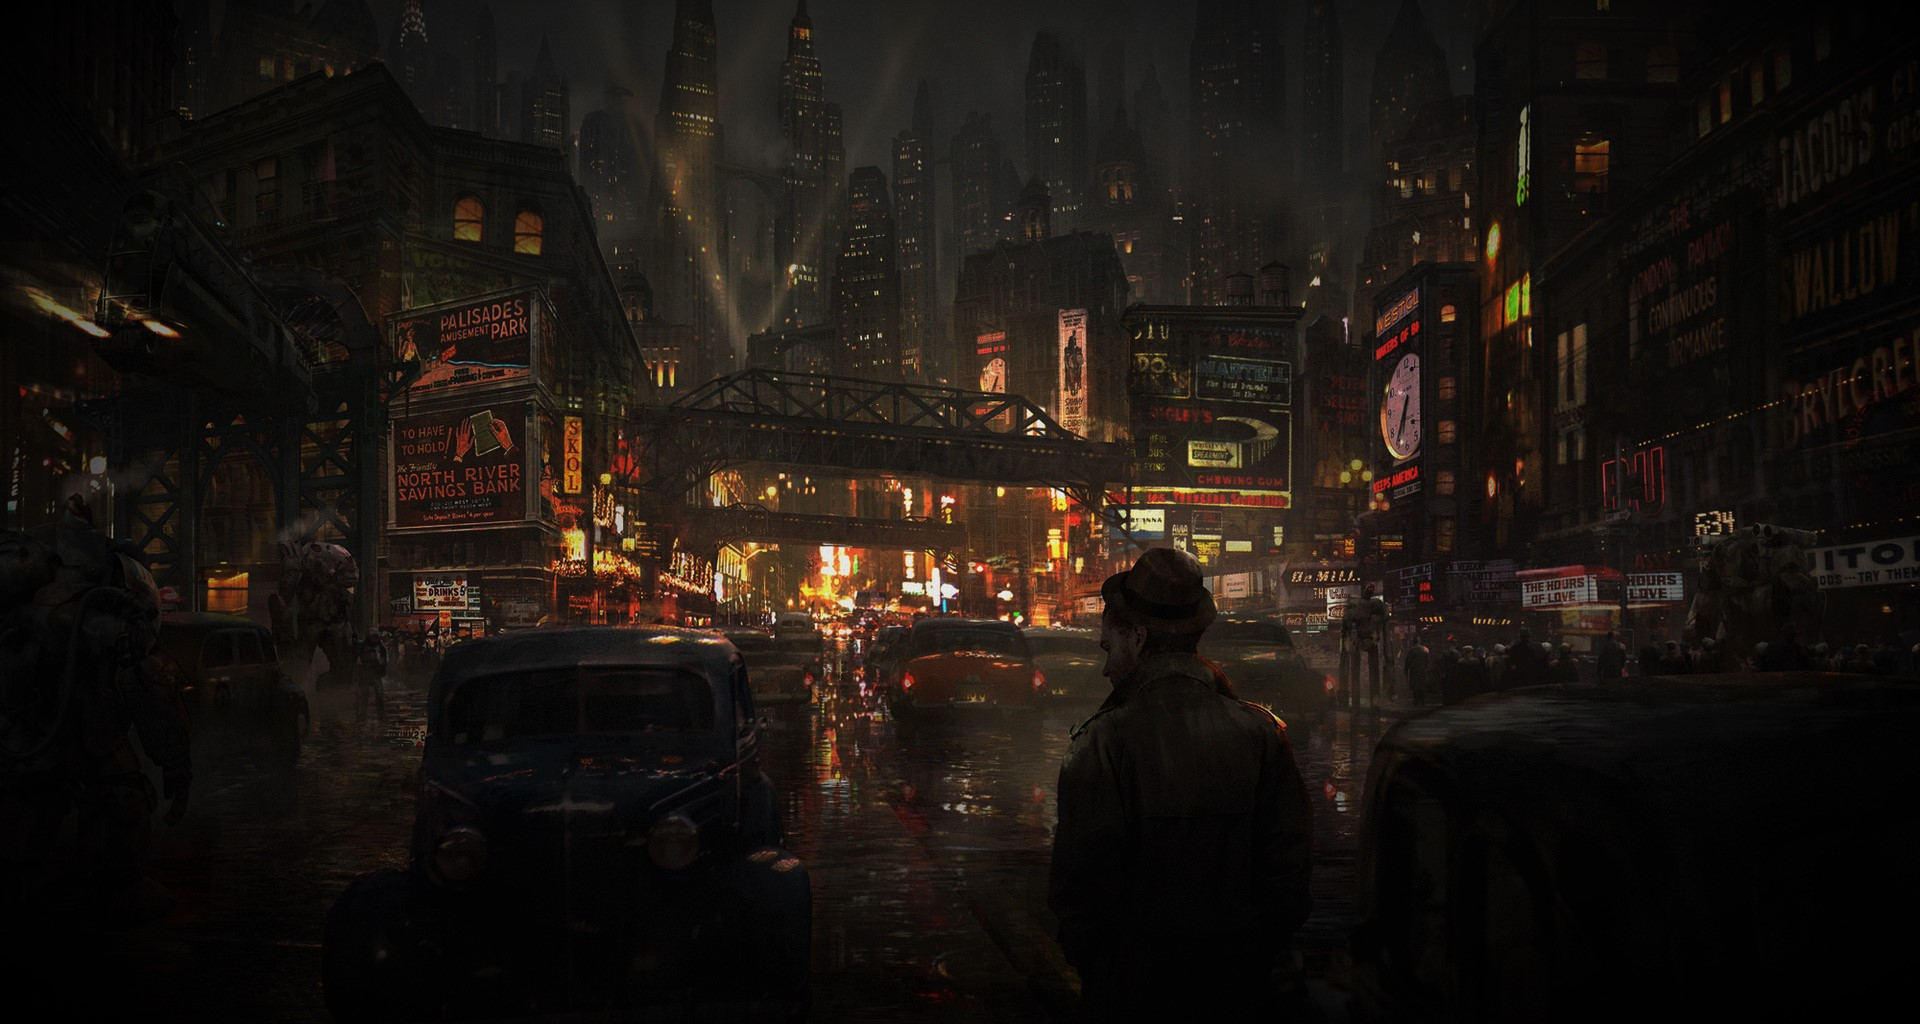
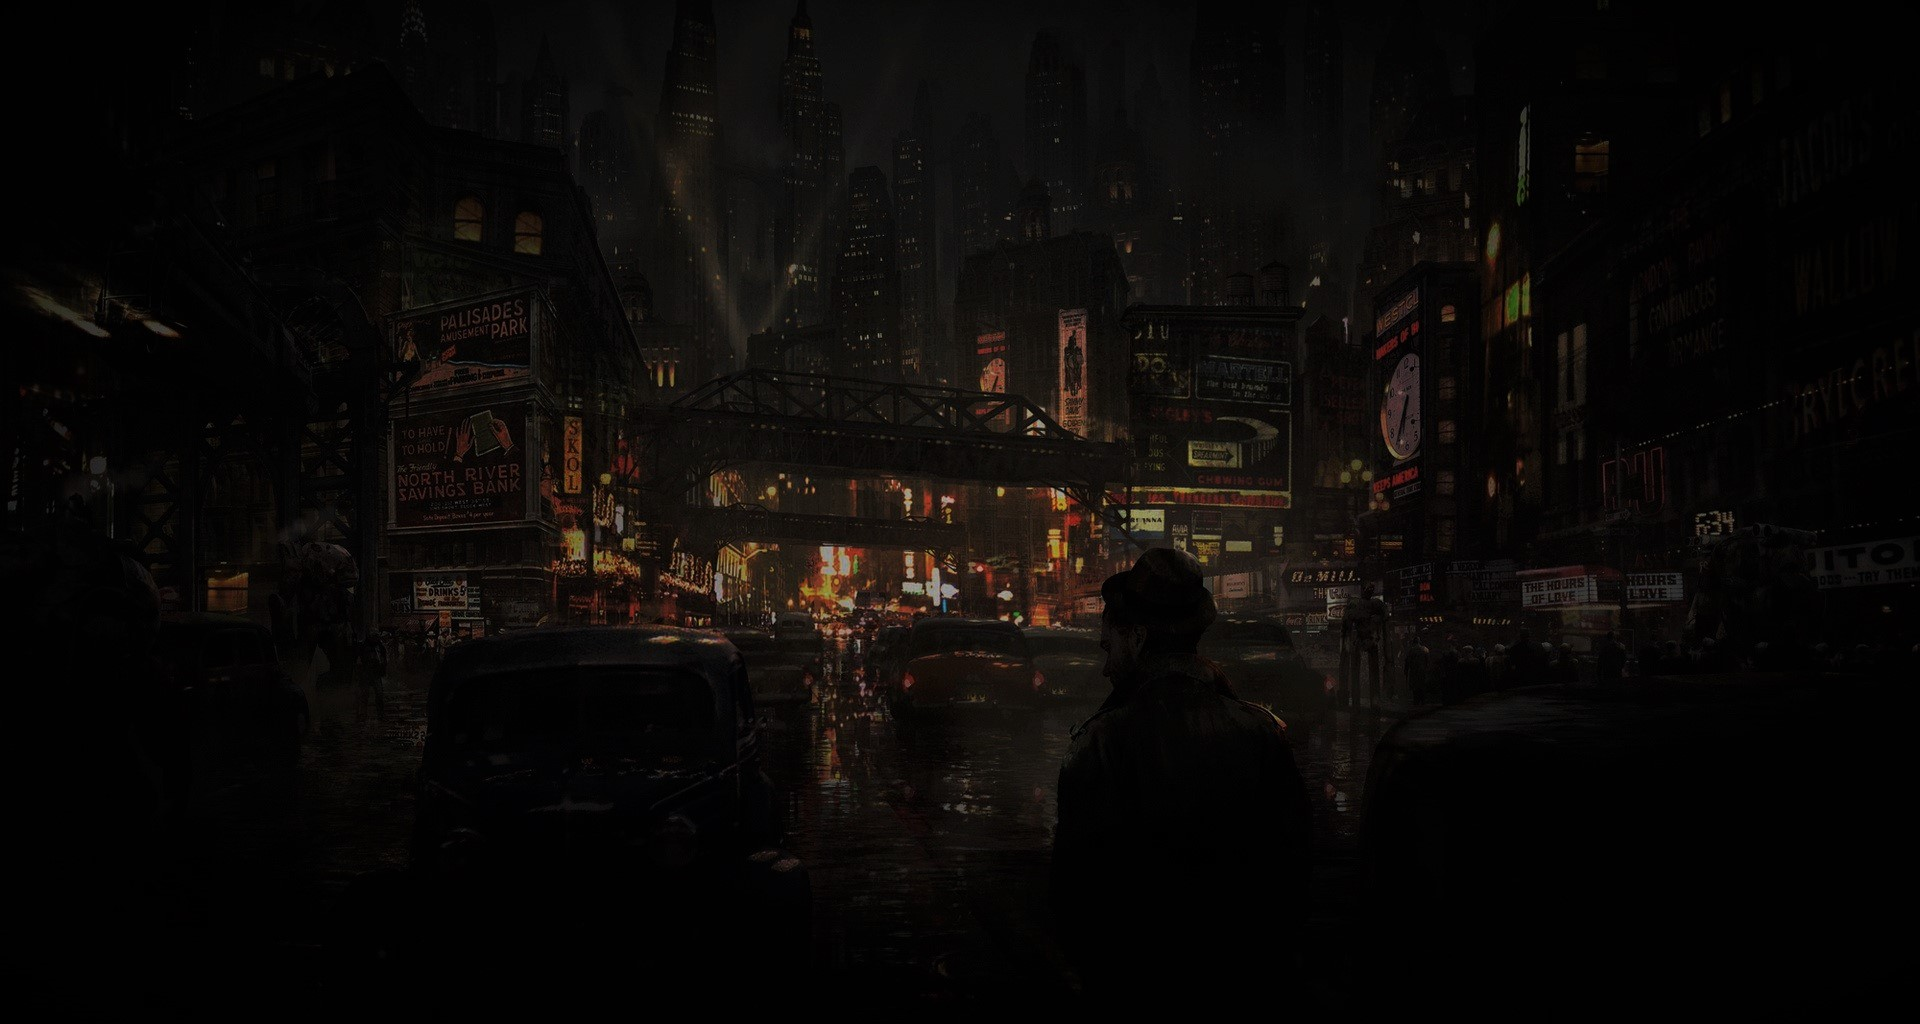
J'ai changé la luminosité des images blblbl

diff --git a/telesto.html b/telesto.html
@@ -1,0 +1,98 @@
+<!DOCTYPE html>
+<html lang="fr">
+<head>
+    <meta charset="UTF-8">
+    <meta name="viewport" content="width=device-width, initial-scale=1.0">
+    <meta http-equiv="X-UA-Compatible" content="ie=edge">
+    <title>StarLight | Telesto</title>
+    <link rel="stylesheet" href="style.css">
+    <link href="https://fonts.googleapis.com/css?family=Orbitron" rel="stylesheet">
+    <link href="https://www.1001fonts.com/sf-distant-galaxy-font.html" rel="stylesheet">
+    <link href="https://fonts.googleapis.com/css?family=Julius+Sans+One" rel="stylesheet">
+    <link href="https://fonts.googleapis.com/css?family=Raleway" rel="stylesheet">
+    <link rel="shortcut icon" href="StarLightLogo.png" type="image/x-icon">
+    <link href="https://fonts.googleapis.com/icon?family=Material+Icons"
+      rel="stylesheet">
+</head>
+<body>
+    <header id="top">
+        <div>
+            <img src="StarLightLogo.png" alt="" height="120px" onclick="location.href='index.html'"> 
+            <p onclick="location.href='index.html'">StarLight</p>
+        </div>
+    </header>
+    <div class="cadreplanete">
+        <h1>Telesto</h1>
+        <p><b><i>Joyau de vie de d'energie</i></b></p>
+        <div class="icones">
+            <div>
+                <i class="material-icons" id="rouge">star</i>
+                <p>N'a pas accès à la Magie</p>
+            </div>
+            <div>
+               <a id="ficheDescription"><i class="material-icons" id="fleche">keyboard_arrow_down</i></a> 
+            </div>
+            <div>
+                <i class="material-icons">brightness_5</i>
+                <p>A accès à la technologie Spatiale</p>
+            </div>
+            <div>
+                <i class="material-icons" id="saumon">person_outline</i>
+                <p>Type de gouvernement : <br> Semi-Dictature</p>
+            </div>
+            <div>
+                <i class="material-icons">flash_on</i>
+                <p>Ère : Futuriste</p>
+            </div>
+            <div>
+                <i class="material-icons" id="vert">room</i>
+                <p>Situation géopolitique : <br> Très stable</p>
+            </div>
+        </div>
+    </div>
+    <div class="parallax" id="tele"></div>
+        <h1 id="fiche">Fiche récapitulative :</h1>
+        <img class="ficheplanete" src="images/fichemagaclite.jpg" alt="">
+        <h1>Description :</h1>
+        <p class="texteplanete">Telesto est une planète de petite taille, située dans le système de Magellan. C’est la planète voisine à Magaclite. Elle est recouverte d’une grande plaine entourée par une profonde forêt séparée par de nombreuses rivières traversant la planète de long en large. Au pôle, Nord se situe l’unique montagne de Telesto, le mont Fulgur. Une mystique montagne étant à la source du temps constamment orageux de la planète. Les légendes racontent qu’il y aurait à son sommet une source pure d'Énergie élémentaire de Foudre (EdF). <br><br>
+
+            Étant la planète la plus reculée de son système, son climat est assez froid, ayant des températures variant de 35°C à -65°C, elle abrite une faune ainsi qu’une flore extrêmement variée, mais une espèce particulière se démarque des autres : les Florides. Une espèce entre l’homme et la plante, d’un pacifisme hors pair. Malgré cela, cette espèce est réputée pour ses capacités à manipuler le bois, pouvant faire de magnifiques objet ainsi que d’intrépides armes. <br><br>
+            
+            Bien que cette espèce ne fasse de mal à personne, elle n’est pas à l'abri des autres espèces étant plutôt agressive, cherchant à se nourrir de leurs récoltes, et même dans les cas les plus extrêmes, de leurs chair boiseuse. <br><br>
+            
+            Le temps sur Telesto est majoritairement nuageux, les orages ainsi que de violentes tempêtes électriques sont choses courantes. Comme énoncé plus tôt, ses orages sont dues à cause du sommet du mont Fulgur, d’une hauteur de 1856 mètres celui-ci abrite une source pure d’un élément, en l’occurrence celui de Foudre. <br><br>
+            
+            D’après la section de surveillance de Karma l'énergie produite par cette source serait capable d'alimenter la totalité du réseau électrique de Magaclite pendant des centaines de milliers d'années. Cette mystérieuse source est au centre des études de la section R&D qui cherche un moyen de la récupérer puis de la stocker pour l’utiliser à des fins utilitaire ou militaire, comme par exemple arriver à stocker cette énergie dans une arme pour ensuite s’en servir comme munitions pour tirer à l’infini. <br><br>
+            
+            La source élémentaire du mont Fulgur n’en fait pas sa seule particularité. En effet, le mont Fulgur est aussi la source de toutes les rivières de Telesto qui se séparent aux 4 coins du globe, alimentant toute la végétation en eau pour finalement se retrouver au même endroit, dans la mer éternelle, situé à l’opposé du mont Fulgur, au centre du pôle Sud. <br><br>
+            
+            Cette paisible mer contient une eau pure, qui selon les croyances, aurait des effets rajeunissant sur la peau, la rendant douce comme de la soie. <br><br>
+            
+            Malgré tous ses spécification particulières, Telesto semble ne contenir aucune trace de magie, mais une trace bien présente d’EdF. <br><br>
+        </p>
+        <footer>
+                <p>Site fait avec ❤ par <a href="https://cc-c-t-o.000webhostapp.com">Théo</a><br>Idée par Théo, Onyx, Santeripe, Daku et Close</p>
+                <a id="retourEnHaut"><img src="StarLightLogo.png" alt="" height="120px" title="Retourner en haut de la page"> </a> 
+                <p>© 2019 tous droits réservés.</p>
+        </footer>
+
+        <script src="https://ajax.googleapis.com/ajax/libs/jquery/1.5.1/jquery.min.js"></script>
+        <script>
+            $(document).ready(function (){
+                $("#retourEnHaut").click(function (){
+                    $('html, body').animate({
+                        scrollTop: $("#top").offset().top
+                    }, 2000);
+                });
+            });
+
+            $(document).ready(function (){
+                $("#ficheDescription").click(function (){
+                    $('html, body').animate({
+                        scrollTop: $("#fiche").offset().top
+                    }, 2000);
+                });
+            });
+        </script>
+</body>
+</html>

diff --git a/style.css b/style.css
@@ -233,6 +233,7 @@ header div{
 
   #planeteliste article p{
       font-size: 30px;
+      line-height: 1.6;
   }
 
 #planeteListeMagaclite{
@@ -344,8 +345,17 @@ header div{
     cursor: pointer;
 }
 
-/* ////////////////// */
+/* /////////ARIRERE PLAN DE PLANETE///////// */
 
+#maga{
+    background-image: url("images/planetesimage/Magaclite.jpg");
+}
+
+#tele{
+    background-image: url("images/planetesimage/Telesto.jpg");
+}
+
+/* ////////////////// */
 .ficheplanete{
     display: flex;
     margin-right: auto;
@@ -420,7 +430,7 @@ footer img:hover{
 
 .parallax {
     /* The image used */
-    background-image: url("images/Magaclite.jpg");
+ 
   
     /* Set a specific height */
     height: 100vh;

diff --git a/planetes.html b/planetes.html
@@ -25,7 +25,7 @@
             <p>L'Utopie planétaire.</p>
           </div>
         </article>
-        <article id="planeteListeTelesto">
+        <article id="planeteListeTelesto" onclick="location.href='telesto.html'">
           <div class="content">
             <h1>Telesto</h1>
             <p>Joyau de vie et d'énergie.</p>

diff --git a/magaclite.html b/magaclite.html
@@ -50,7 +50,7 @@
             </div>
         </div>
     </div>
-    <div class="parallax"></div>
+    <div class="parallax" id="maga"></div>
         <h1 id="fiche">Fiche récapitulative :</h1>
         <img class="ficheplanete" src="images/fichemagaclite.jpg" alt="">
         <h1>Description</h1>
